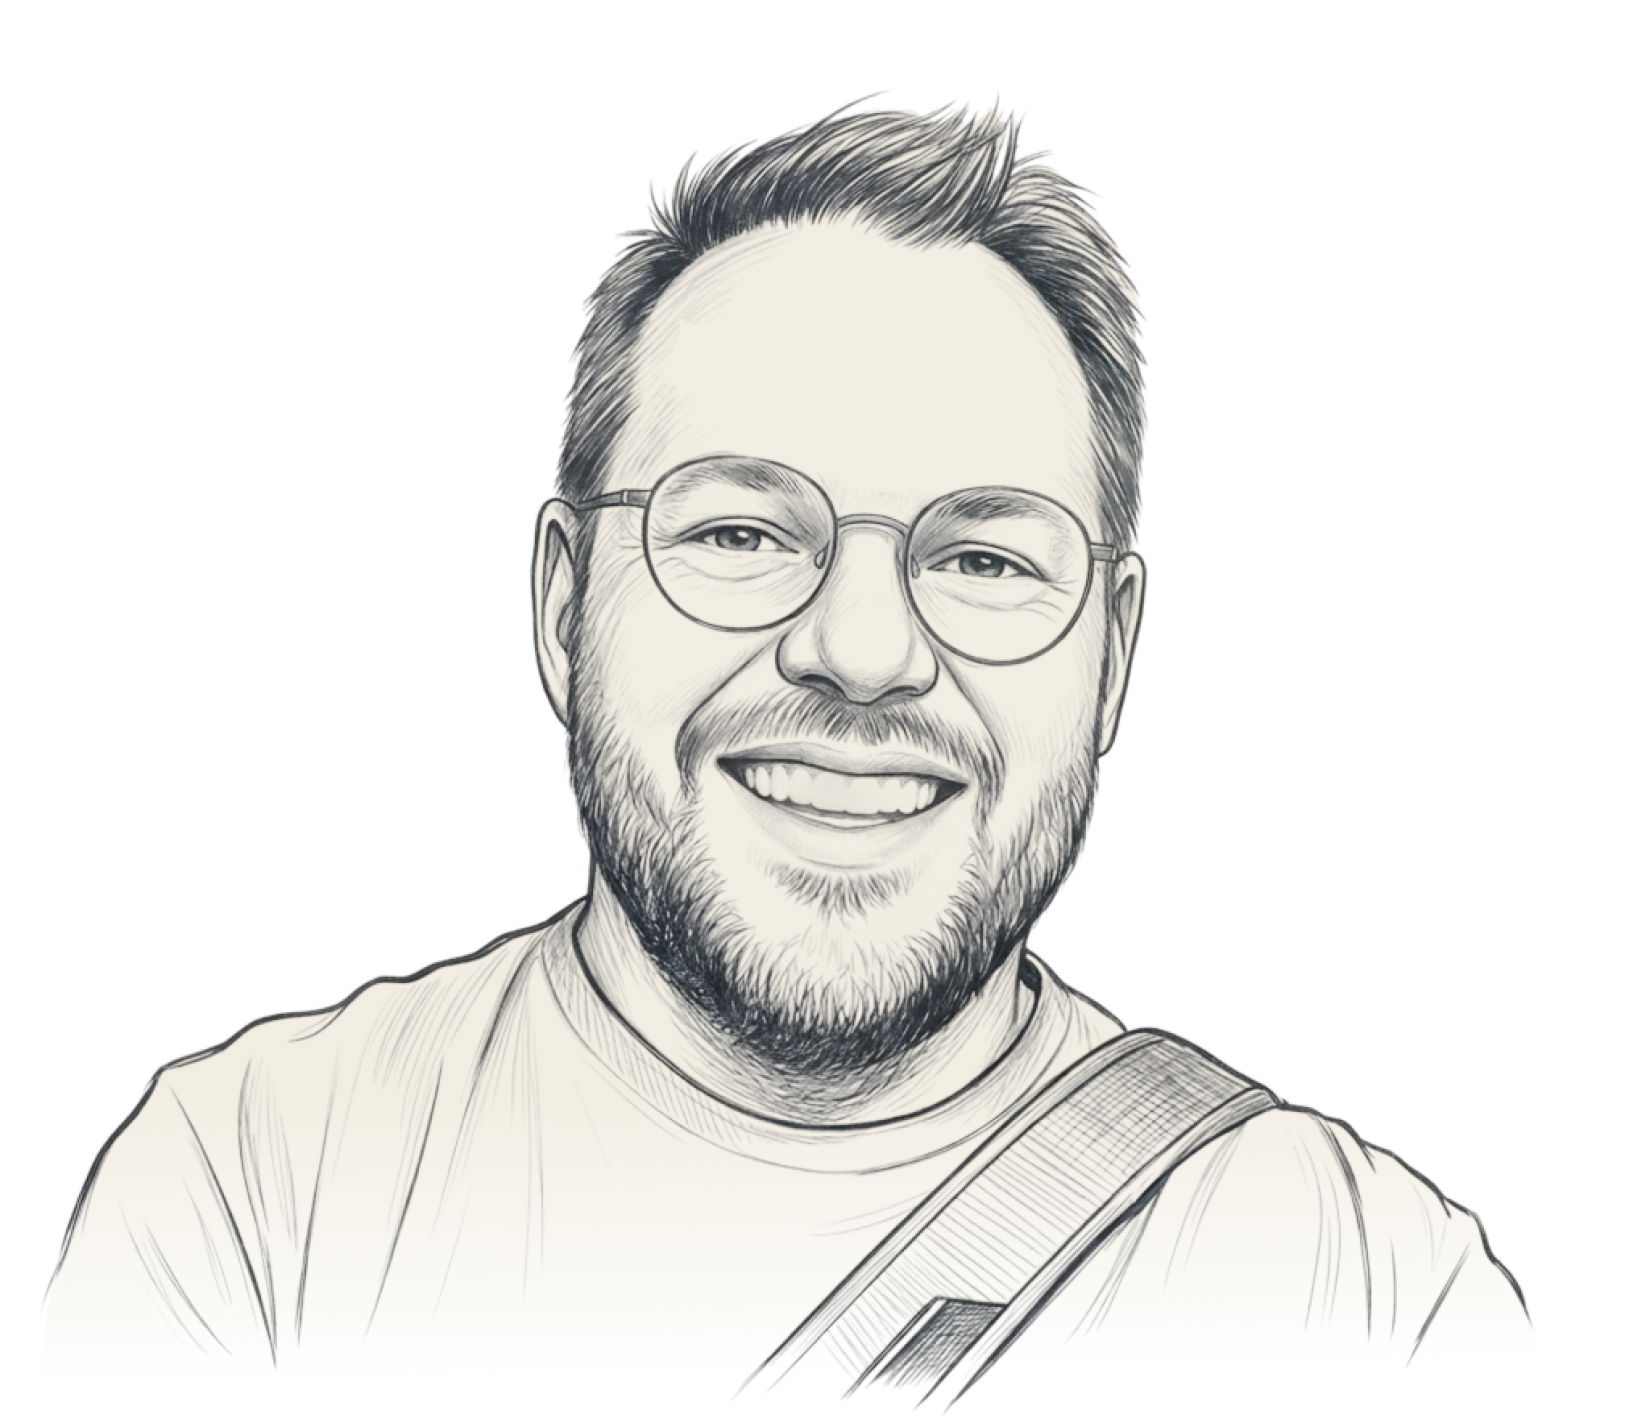
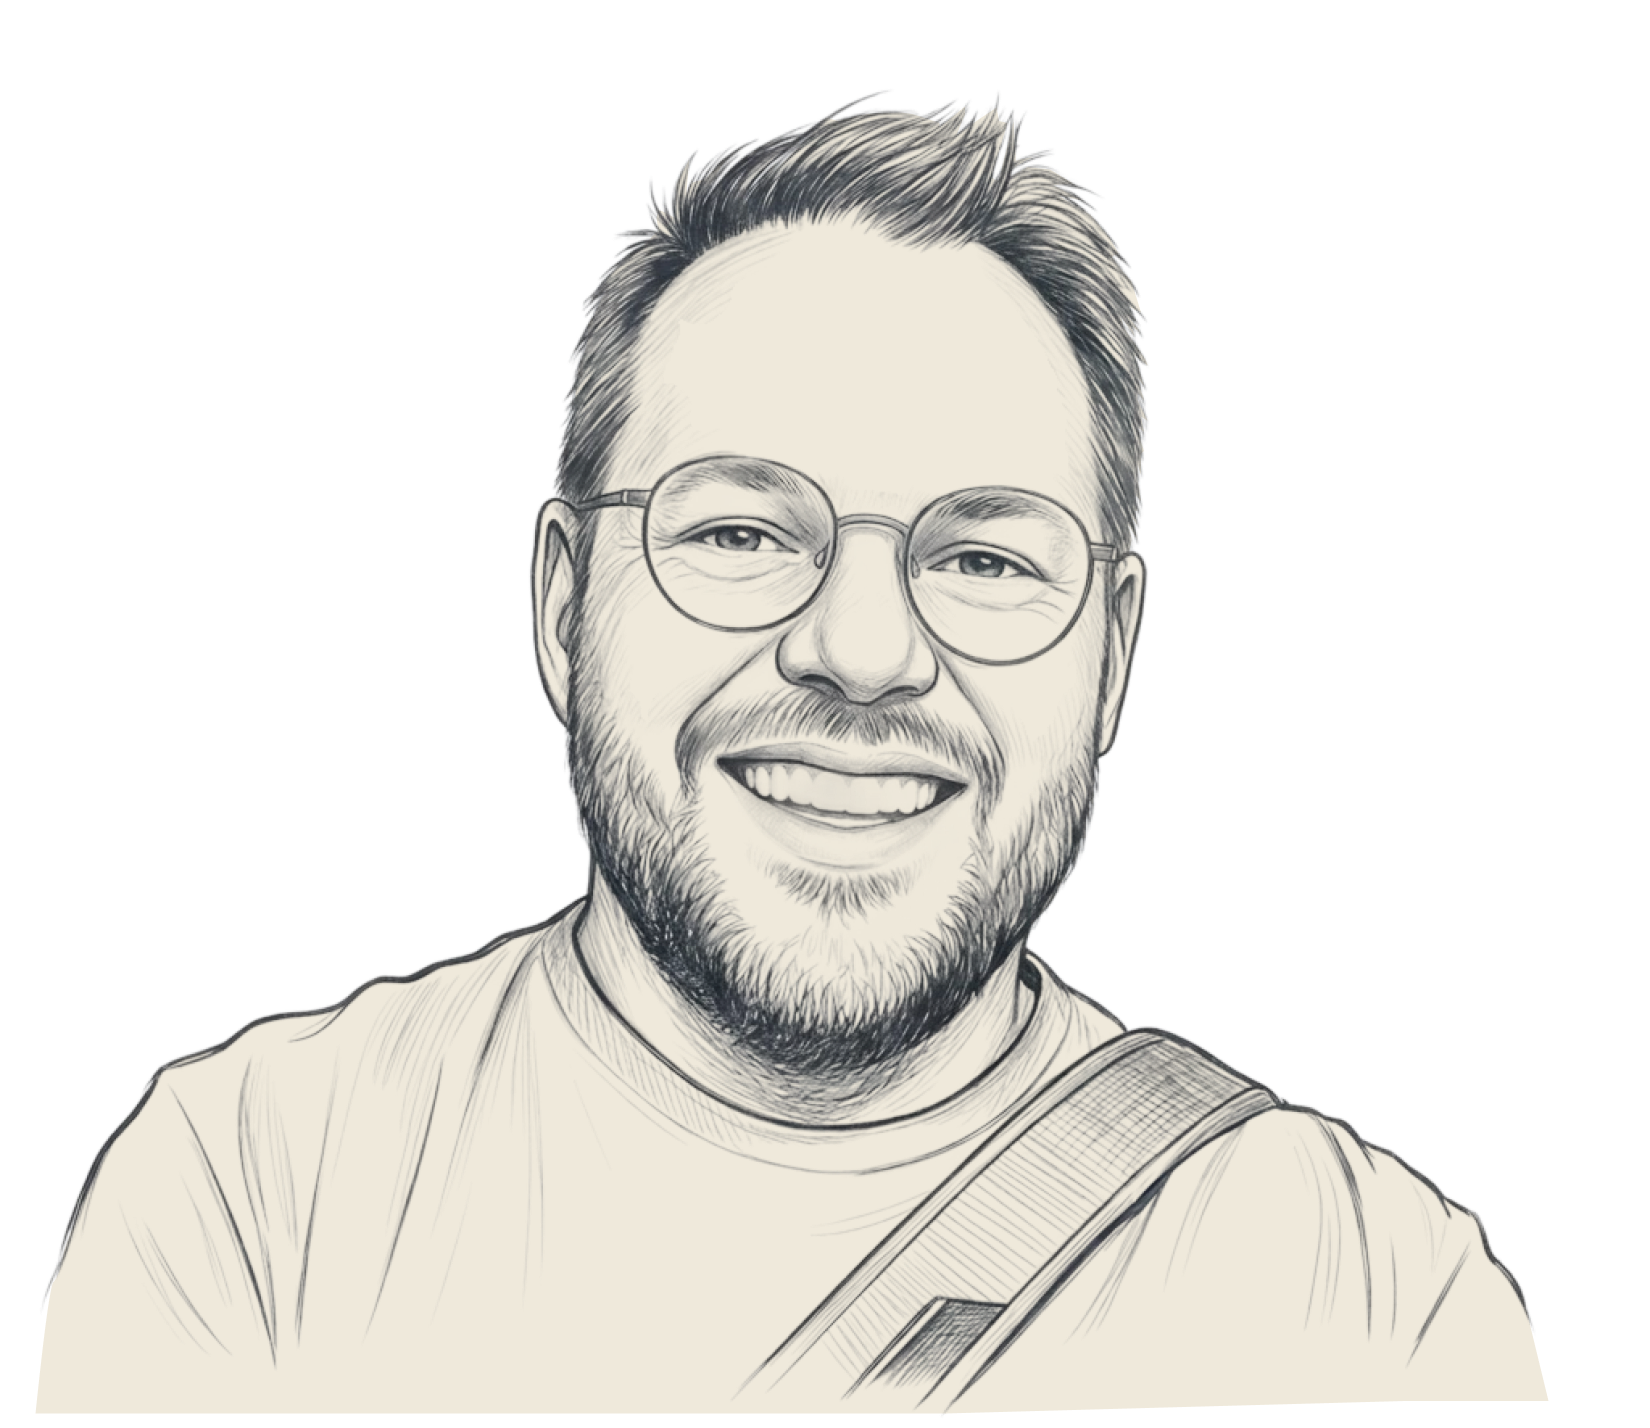
Point Hero at renamed image and update image bytes
Follow-up to the rename: the previous commit captured the file move but
not the Hero.tsx reference update or the latest image bytes. Update the
src to /josh-hero-v2.png and commit the current portrait so HEAD is
consistent (the prior commit briefly referenced the old path).

Changed region(s): [[0.0, 0.8627, 0.9582, 1.0]]

diff --git a/src/components/Hero.tsx b/src/components/Hero.tsx
@@ -7,7 +7,7 @@ export default function Hero() {
     <section className={styles.hero}>
       <div className={styles.inner}>
         <Image
-          src="/josh-hero.png"
+          src="/josh-hero-v2.png"
           alt="Portrait illustration of Josh Clark"
           width={550}
           height={476}
